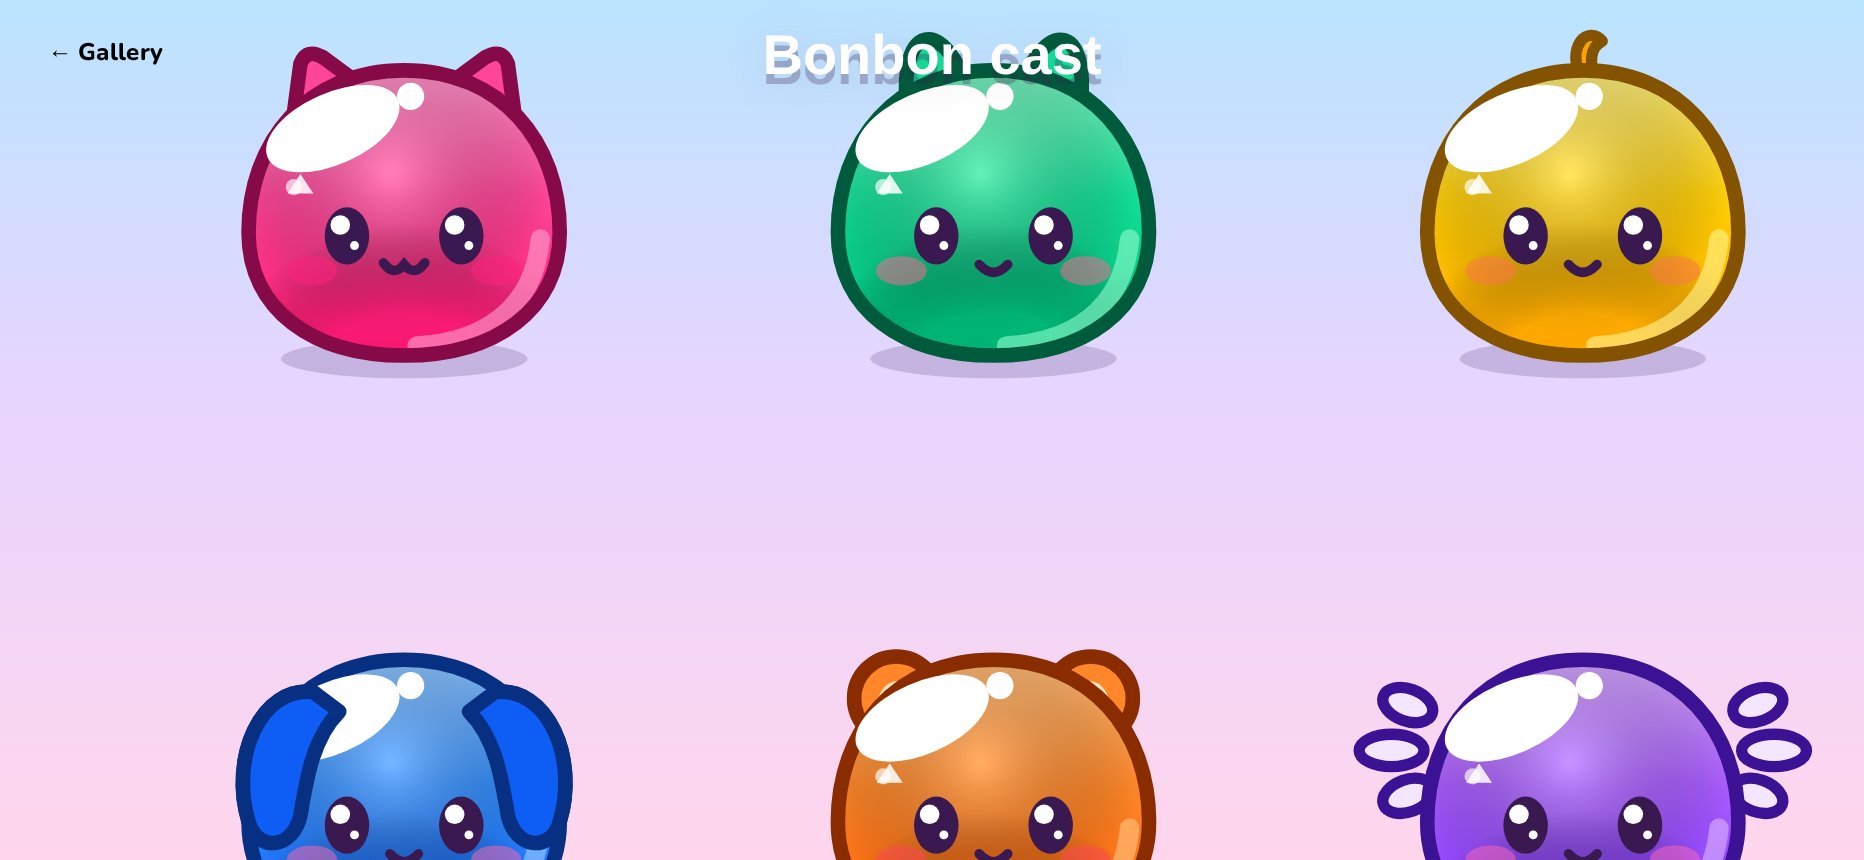
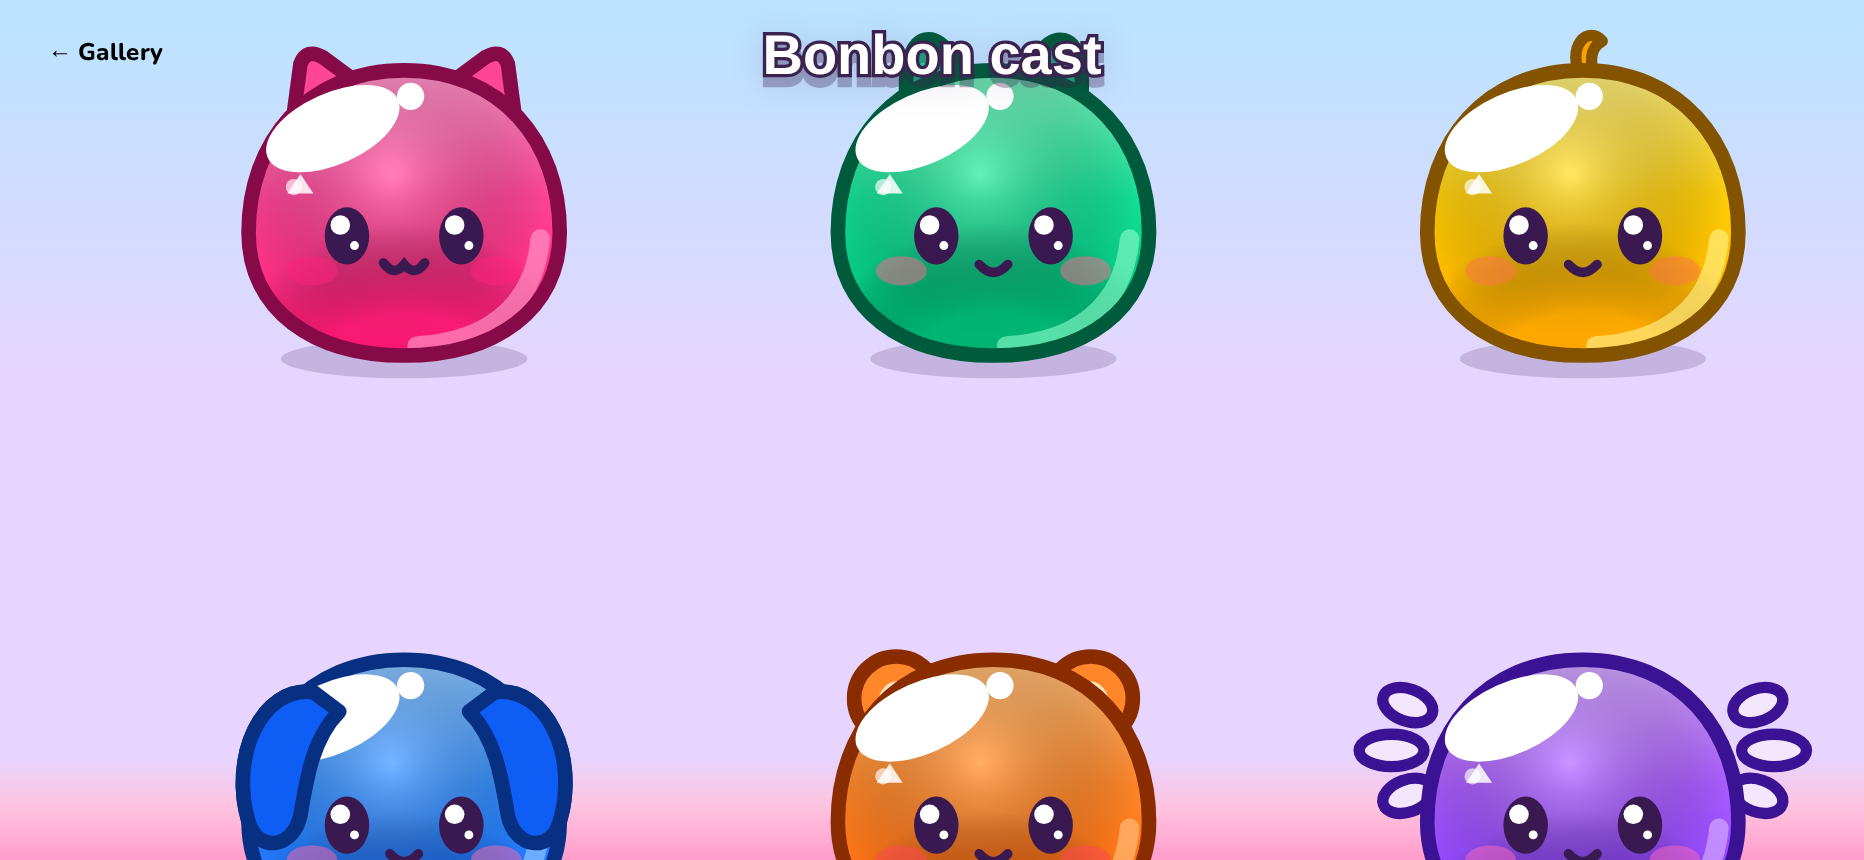
Round 5 polish: viewport balance, HUD, and ship-ready FX
Fill portrait height with a thin milk band, lower the starting field
below icing, tighten wall clamping, and center the next-bonbon preview.
Use solid score stickers and a real landscape NEXT canvas, drop soft-ring
debug draw, and anchor score pops on pops only.

diff --git a/src/ui/screens.ts b/src/ui/screens.ts
@@ -97,11 +97,6 @@ export function renderTitleHud(root: HTMLElement, best: number): void {
 const ICON_PAUSE = `<svg width="22" height="22" viewBox="0 0 24 24" fill="none" aria-hidden="true"><rect x="5" y="4" width="5" height="16" rx="2" fill="#3A1F4D"/><rect x="14" y="4" width="5" height="16" rx="2" fill="#3A1F4D"/></svg>`;
 const ICON_SOUND = `<svg width="22" height="22" viewBox="0 0 24 24" fill="none" aria-hidden="true"><path d="M4 10v4h4l5 4V6L8 10H4z" fill="#3A1F4D" stroke="#3A1F4D" stroke-width="1.5"/><path d="M16 8.5a5 5 0 010 7" stroke="#3A1F4D" stroke-width="2" stroke-linecap="round"/></svg>`;
 
-function flavourDot(fl: Flavour, px: number): string {
-  const c = tokens.color.flavour[fl];
-  return `<span class="ui" style="display:inline-block;width:${px}px;height:${px}px;border-radius:50%;background:linear-gradient(${c.light},${c.base});border:3px solid ${c.outline}"></span>`;
-}
-
 const SWAP_SVG = `<svg width="18" height="18" viewBox="0 0 24 24" fill="none" aria-hidden="true"><path d="M9 6l-4 4 4 4" stroke="#fff" stroke-width="2.5" stroke-linecap="round"/><path d="M15 18l4-4-4-4" stroke="#fff" stroke-width="2.5" stroke-linecap="round"/><path d="M5 10h9" stroke="#fff" stroke-width="2.5" stroke-linecap="round"/><path d="M19 14H10" stroke="#fff" stroke-width="2.5" stroke-linecap="round"/></svg>`;
 
 export function renderPlayHud(
@@ -111,7 +106,7 @@ export function renderPlayHud(
   combo?: number,
   _stage = 1,
   _shots = 0,
-  nextCoat: Flavour = 'mint',
+  _nextCoat: Flavour = 'mint',
   world?: GameWorld,
 ): void {
   const L = computeLayout(innerWidth, innerHeight);
@@ -119,22 +114,21 @@ export function renderPlayHud(
   const riseIn = world?.shotsUntilRise() ?? 1;
   const catches = world?.catches ?? 0;
   if (L.landscape) {
-    const sw = L.sideW;
-    const lx = Math.max(12, (L.fx - sw) / 2);
+    const sw = Math.min(L.sideW, Math.max(148, L.fx - 10));
     const rx = Math.max(12, innerWidth - L.fx - L.fw - sw);
     root.innerHTML = `
-      <div class="ui ui-abs" style="left:${lx}px;top:14px;width:${sw}px;display:flex;flex-direction:column;gap:10px;align-items:stretch">
-        <button class="btn icon gloss ui" aria-label="Pause" data-action="pause">${ICON_PAUSE}</button>
-        <div class="label ui" style="margin-top:4px">Score</div>
-        <div class="disp score-sticker num ui" style="font-size:44px;line-height:1;text-align:center">${score.toLocaleString()}</div>
-        <div class="chip best-chip ui" style="justify-content:center"><span class="best-star">★</span> BEST <span class="num">${best.toLocaleString()}</span></div>
-        ${combo ? `<div class="chip ui" style="background:#FFE36B;justify-content:center">CHAIN ×${combo}</div>` : ''}
+      <div class="ui ui-abs" style="left:14px;top:14px;width:${sw}px;display:flex;flex-direction:column;gap:8px;align-items:stretch">
+        <button class="btn icon gloss ui" aria-label="Pause" data-action="pause" style="align-self:flex-start">${ICON_PAUSE}</button>
+        <div class="label ui">Score</div>
+        <div class="disp score-sticker num ui" style="font-size:44px;line-height:1;text-align:left">${score.toLocaleString()}</div>
+        <div class="chip best-chip ui" style="align-self:flex-start"><span class="best-star">★</span> BEST <span class="num">${best.toLocaleString()}</span></div>
+        ${combo ? `<div class="chip ui" style="background:#FFE36B;align-self:flex-start">CHAIN ×${combo}</div>` : ''}
       </div>
       <div class="ui ui-abs" style="right:${rx}px;top:14px;width:${sw}px;display:flex;flex-direction:column;gap:10px;align-items:flex-end">
         <button class="btn icon gloss ui" aria-label="Sound" data-action="mute">${ICON_SOUND}</button>
-        <div class="panel ui" style="width:min(140px,100%);padding:10px 12px 12px;text-align:center;margin-top:6px">
+        <div class="panel ui" style="width:min(140px,100%);padding:10px 12px 12px;text-align:center">
           <div class="label ui" style="font-size:10px;margin-bottom:6px">Next</div>
-          <div class="ui" style="width:76px;height:76px;margin:0 auto 10px;border-radius:22px;background:#fff;box-shadow:inset 0 0 0 3px #E8D6F8;display:flex;align-items:center;justify-content:center">${flavourDot(nextCoat, 52)}</div>
+          <div class="ui" style="width:76px;height:76px;margin:0 auto 10px;border-radius:22px;background:#fff;box-shadow:inset 0 0 0 3px #E8D6F8;display:flex;align-items:center;justify-content:center"><canvas id="next-preview" class="ui" aria-hidden="true"></canvas></div>
           <button class="ui btn swap-badge" style="width:44px;height:44px;padding:0;margin:0 auto 8px;border-radius:50%" data-action="swap" aria-label="Swap colours">${SWAP_SVG}</button>
         </div>
         <div class="chip ui" style="width:min(140px,100%);justify-content:center">RISE IN <span class="num">${riseIn}</span></div>

diff --git a/src/render/scene.ts b/src/render/scene.ts
@@ -26,11 +26,16 @@ export function drawSky(
   ctx: CanvasRenderingContext2D,
   vw: number,
   vh: number,
+  milkLineY?: number,
 ): void {
   const g = ctx.createLinearGradient(0, 0, 0, vh);
   g.addColorStop(0, C.skyTop);
   g.addColorStop(0.45, C.skyMid);
-  g.addColorStop(1, C.skyBottom);
+  const milkAt = milkLineY ?? vh * 0.9;
+  const t = Math.max(0.62, Math.min(0.92, milkAt / vh - 0.02));
+  g.addColorStop(t, C.skyMid);
+  g.addColorStop(Math.min(0.98, t + 0.06), C.milkTop);
+  g.addColorStop(1, C.milkBottom);
   ctx.fillStyle = g;
   ctx.fillRect(0, 0, vw, vh);
 }
@@ -70,7 +75,7 @@ export function drawField(
 
   drawMilk(ctx, o.cupX);
 
-  const cupBandTop = W.seaSurfaceY - PITCH * 0.55;
+  const cupBandTop = W.seaSurfaceY - PITCH * 0.35;
   const playBonbons: Bonbon[] = [];
   const milkBonbons: Bonbon[] = [];
   for (const b of o.bonbons) {
@@ -225,21 +230,24 @@ function drawWalls(ctx: CanvasRenderingContext2D): void {
   }
 }
 
+const MILK_DEPTH_U = 105;
+
 function drawMilk(ctx: CanvasRenderingContext2D, _cupX: number): void {
   const seaY = W.seaSurfaceY;
-  const g = ctx.createLinearGradient(0, seaY, 0, seaY + 400);
+  const depth = MILK_DEPTH_U;
+  const g = ctx.createLinearGradient(0, seaY, 0, seaY + depth);
   g.addColorStop(0, C.milkTop);
-  g.addColorStop(0.4, C.milkBottom);
+  g.addColorStop(0.55, C.milkBottom);
   ctx.fillStyle = g;
   ctx.beginPath();
   ctx.moveTo(-200, seaY);
   for (let i = 0; i < 14; i++) {
     const x = -100 + i * 100;
-    const cy = seaY - (i % 2 ? 26 : -10);
+    const cy = seaY - (i % 2 ? 22 : -8);
     ctx.quadraticCurveTo(x - 50, cy, x, seaY);
   }
-  ctx.lineTo(1200, seaY + 2000);
-  ctx.lineTo(-200, seaY + 2000);
+  ctx.lineTo(1200, seaY + depth);
+  ctx.lineTo(-200, seaY + depth);
   ctx.closePath();
   ctx.fill();
   ctx.strokeStyle = C.milkFoam;
@@ -406,8 +414,8 @@ function drawNextBonbon(ctx: CanvasRenderingContext2D, coat: Flavour): void {
   ctx.arc(nb.x, nb.y, r, 0, Math.PI * 2);
   ctx.fill();
   ctx.stroke();
-  const innerW = r * 1.28;
-  drawBonbon(ctx, nb.x - 1, nb.y + innerW * 0.36, {
+  const innerW = r * 1.4;
+  drawBonbon(ctx, nb.x, nb.y + innerW * 0.42, {
     flavour: coat,
     w: innerW,
     expr: 'idle',
@@ -433,11 +441,14 @@ function drawNextBonbon(ctx: CanvasRenderingContext2D, coat: Flavour): void {
   ctx.stroke();
 }
 
-/** Visible play slice (u): thin milk band at bottom per DESIGN-SYSTEM §6. */
-const VIEW_TOP = 275;
-const VIEW_H = 1280;
-const VIEW_TOP_L = 210;
-const VIEW_H_L = 1540;
+/** Visible play slice (u): Puff through thin milk band at bottom (~8–10% of height). */
+const MILK_BAND_U = 105;
+const VIEW_TOP = 260;
+const VIEW_TOP_L = 200;
+const VIEW_H_P =
+  tokens.layout.seaSurfaceY + MILK_BAND_U - VIEW_TOP;
+const VIEW_H_L =
+  tokens.layout.seaSurfaceY + MILK_BAND_U - VIEW_TOP_L;
 
 export function computeLayout(vw: number, vh: number) {
   const landscape = vw / vh > 1.15;
@@ -448,13 +459,15 @@ export function computeLayout(vw: number, vh: number) {
   const availW = vw - sideW * 2;
   const availH = vh - hudH - (landscape ? 0 : 6);
   const viewTop = landscape ? VIEW_TOP_L : VIEW_TOP;
-  const viewH = landscape ? VIEW_H_L : VIEW_H;
+  const viewH = landscape ? VIEW_H_L : VIEW_H_P;
   let scale = landscape
     ? Math.min(availW / W.worldW, availH / viewH)
-    : availW / W.worldW;
+    : availH / viewH;
   let fh = viewH * scale;
-  if (fh > availH) scale = availH / viewH;
-  fh = viewH * scale;
+  if (landscape && fh > availH) {
+    scale = availH / viewH;
+    fh = availH;
+  }
   const fw = W.worldW * scale;
   const fx = (vw - fw) / 2;
   const fy = landscape ? (vh - fh) / 2 : hudH;

diff --git a/src/game/app.ts b/src/game/app.ts
@@ -2,6 +2,7 @@ import { tokens } from '../tokens';
 import { installOverlapChecker } from '../ui/overlap';
 import { computeLayout, drawField, drawSky } from '../render/scene';
 import { drawBonbon } from '../render/bonbon';
+import { paintBonbonPreview } from '../render/preview';
 import { bonbonRadius } from '../sim/lattice';
 import { FxLayer } from '../render/fx';
 import { SoftRing } from '../render/softring';
@@ -218,8 +219,9 @@ export class GameApp {
           this.fx.showBigWord(`HUG ×${e.chain.length}!`, true);
           this.fx.emitConfetti(b.x, b.y, 40);
         }
-        if (e.bonbon && e.bonbon.x > 40) {
-          this.fx.scorePop(e.bonbon.x, e.bonbon.y - 48, `+${popPts(e)}`);
+        if (e.pop && e.bonbon) {
+          const r = bonbonRadius(e.bonbon.size);
+          this.fx.scorePop(e.bonbon.x, e.bonbon.y - r * 0.55, `+${popPts(e)}`);
         }
         this.clocks.addTrauma(
           tokens.motion.shake.add.sweetPop,
@@ -380,6 +382,13 @@ export class GameApp {
         this.world,
       );
     } else if (this.screen === 'gallery') renderGalleryHud(this.uiRoot);
+    const layout = computeLayout(innerWidth, innerHeight);
+    const preview = this.uiRoot.querySelector(
+      '#next-preview',
+    ) as HTMLCanvasElement | null;
+    if (preview && this.world && layout.landscape) {
+      paintBonbonPreview(preview, this.world.nextCoat, 52);
+    }
     else if (this.screen === 'book') renderBookHud(this.uiRoot, this.store);
     else if (this.screen === 'credits') renderCreditsHud(this.uiRoot);
     else if (this.screen === 'trail') renderTrailHud(this.uiRoot, this.store);
@@ -564,7 +573,10 @@ export class GameApp {
       return;
     }
     const L = computeLayout(innerWidth, innerHeight);
-    drawSky(ctx, innerWidth, innerHeight);
+    const milkScreen =
+      (L.fieldY ?? L.fy) +
+      (tokens.layout.seaSurfaceY - L.viewTop) * L.scale;
+    drawSky(ctx, innerWidth, innerHeight, milkScreen);
     const cupX = cupXAtTime(
       this.world.seed,
       this.world.shots + performance.now() * 0.001,
@@ -595,22 +607,6 @@ export class GameApp {
       aiming: this.aiming,
       hideNextBubble: L.landscape,
     });
-    ctx.save();
-    ctx.translate(L.fx, fieldY);
-    ctx.scale(L.scale, L.scale);
-    for (const b of this.world.living()) {
-      const ring = this.rings.get(b.id);
-      if (!ring || ring.awakeMs <= 0) continue;
-      const fl = tokens.color.flavour[b.flavour];
-      ring.path(ctx);
-      ctx.fillStyle = fl.light;
-      ctx.fill();
-      ctx.strokeStyle = fl.dark;
-      ctx.lineWidth = 4;
-      ring.path(ctx);
-      ctx.stroke();
-    }
-    ctx.restore();
     for (const id of [...this.rings.keys()]) {
       if (!this.world.living().some((b) => b.id === id)) this.rings.delete(id);
     }

diff --git a/src/sim/lattice.ts b/src/sim/lattice.ts
@@ -52,9 +52,11 @@ export function neighbours(row: number, col: number): Array<[number, number]> {
 let nextId = 1;
 
 function clampX(x: number, r: number): number {
-  const left = tokens.layout.walls.leftX + r + 6;
-  const right = tokens.layout.walls.rightX - r - 6;
-  return Math.max(left, Math.min(right, x));
+  const margin = 12;
+  const left = tokens.layout.walls.leftX + r + margin;
+  const right = tokens.layout.walls.rightX - r - margin;
+  const x1 = Math.max(left, Math.min(right, x));
+  return x1;
 }
 
 export function createBonbon(
@@ -164,8 +166,9 @@ const CAST_ROW: Flavour[][] = [
 
 /** Stack height at new game — keep bottom row above the milk band (sea ~1480u). */
 const START_ROWS = 6;
-const FIELD_CEILING_Y = tokens.layout.frostingY + PITCH * 2.15;
-const FIELD_FLOOR_Y = tokens.layout.seaSurfaceY - PITCH * 2.85;
+/** First row sits below icing + bounce room under Puff/Pip. */
+const FIELD_CEILING_Y = tokens.layout.frostingY + PITCH * 4.15;
+const FIELD_FLOOR_Y = tokens.layout.seaSurfaceY - PITCH * 2.15;
 
 export function initialRiseField(
   seed: string,

diff --git a/src/render/fx.ts b/src/render/fx.ts
@@ -53,17 +53,6 @@ export class FxLayer {
         kind: 'sparkle',
       });
     }
-    this.particles.push({
-      x,
-      y,
-      vx: 0,
-      vy: -80,
-      life: 0.28,
-      max: 0.28,
-      r: 24,
-      color: '#fff',
-      kind: 'ring',
-    });
   }
 
   emitConfetti(x: number, y: number, count = 24): void {
@@ -143,12 +132,13 @@ export class FxLayer {
       const a = Math.min(1, p.life / (p.max * 0.4));
       ctx.globalAlpha = a;
       if (p.kind === 'score' && p.text) {
-        ctx.font = '700 26px Fredoka, sans-serif';
+        ctx.font = '800 20px Fredoka, sans-serif';
         ctx.textAlign = 'center';
+        ctx.lineJoin = 'round';
         ctx.strokeStyle = tokens.color.fx.scorePopStroke;
-        ctx.lineWidth = 6;
+        ctx.lineWidth = 5;
         ctx.strokeText(p.text, p.x, p.y);
-        ctx.fillStyle = p.color;
+        ctx.fillStyle = '#ffffff';
         ctx.fillText(p.text, p.x, p.y);
       } else if (p.kind === 'ring') {
         ctx.strokeStyle = tokens.color.fx.puffRing;

diff --git a/src/render/preview.ts b/src/render/preview.ts
@@ -1,0 +1,25 @@
+import { drawBonbon } from './bonbon';
+import type { Flavour } from '../sim/types';
+
+export function paintBonbonPreview(
+  canvas: HTMLCanvasElement,
+  flavour: Flavour,
+  cssPx = 52,
+): void {
+  const dpr = Math.min(devicePixelRatio || 1, 2);
+  const px = Math.round(cssPx * dpr);
+  canvas.width = px;
+  canvas.height = px;
+  canvas.style.width = `${cssPx}px`;
+  canvas.style.height = `${cssPx}px`;
+  const ctx = canvas.getContext('2d');
+  if (!ctx) return;
+  ctx.clearRect(0, 0, px, px);
+  const w = px * 0.72;
+  drawBonbon(ctx, px / 2, px * 0.84, {
+    flavour,
+    w,
+    expr: 'idle',
+    shadow: false,
+  });
+}

diff --git a/src/ui/styles.css b/src/ui/styles.css
@@ -59,12 +59,13 @@ body {
 
 .sticker,
 .score-sticker {
-  color: #fff;
-  -webkit-text-fill-color: #fff;
+  color: #ffffff;
+  -webkit-text-fill-color: #ffffff;
   paint-order: stroke fill;
-  -webkit-text-stroke: 0.11em var(--bb-color-ui-ink);
-  filter: drop-shadow(0 5px 0 rgba(58, 31, 77, 0.28))
-    drop-shadow(0 2px 10px rgba(58, 31, 77, 0.12));
+  -webkit-text-stroke: 0.12em #3b2350;
+  text-shadow: none;
+  filter: drop-shadow(0 5px 0 rgba(58, 31, 77, 0.32))
+    drop-shadow(0 2px 8px rgba(58, 31, 77, 0.14));
 }
 
 .best-chip {

diff --git a/src/game/world.ts b/src/game/world.ts
@@ -236,8 +236,8 @@ export class GameWorld {
 
   wouldRiseAtShot(shots: number): boolean {
     if (this.mode !== 'rise') return true;
-    if (shots <= 18) return false;
-    if (shots <= 38) return shots % 4 === 0;
+    if (shots <= 15) return false;
+    if (shots <= 40) return shots % 3 === 0;
     if (shots <= 58) return shots % 3 === 0;
     if (shots <= 80) return shots % 2 === 0;
     return true;

diff --git a/docs/balance.md b/docs/balance.md
@@ -6,8 +6,8 @@ Includes **rise + refill** after each shot (unless cup catch).
 
 | bot | median shots | p25 | p75 |
 |---|---:|---:|---:|
-| random aim | 45.0 | 39 | 86 |
-| greedy (64 angles) | 45.0 | 39 | 51 |
+| random aim | 88.0 | 42 | 95 |
+| greedy (64 angles) | 48.0 | 39 | 87 |
 
 GDD target: random median 35–60 shots; greedy > 150 shots.
 
